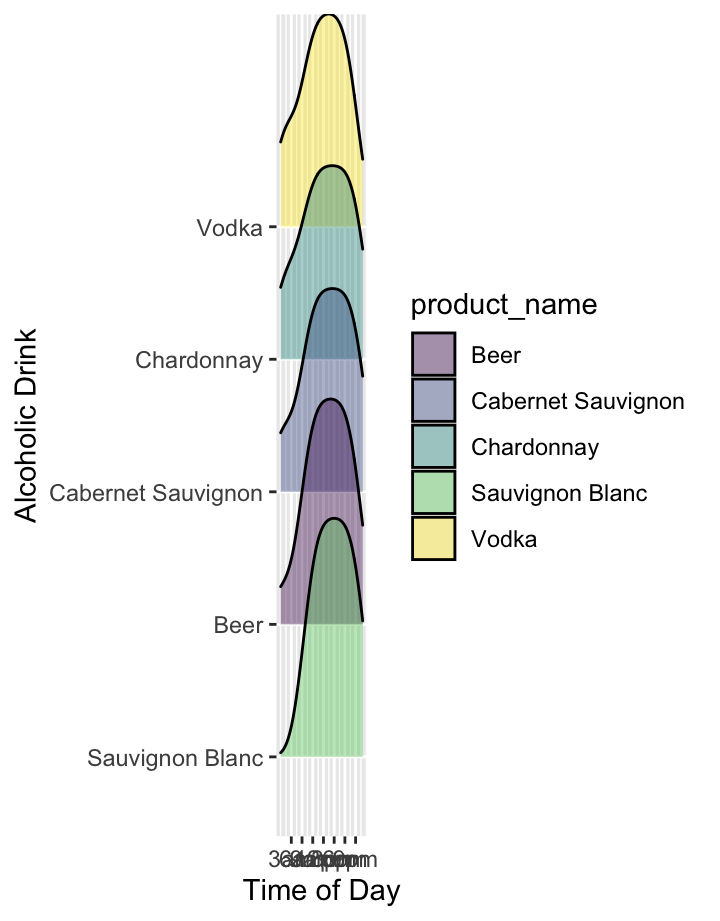
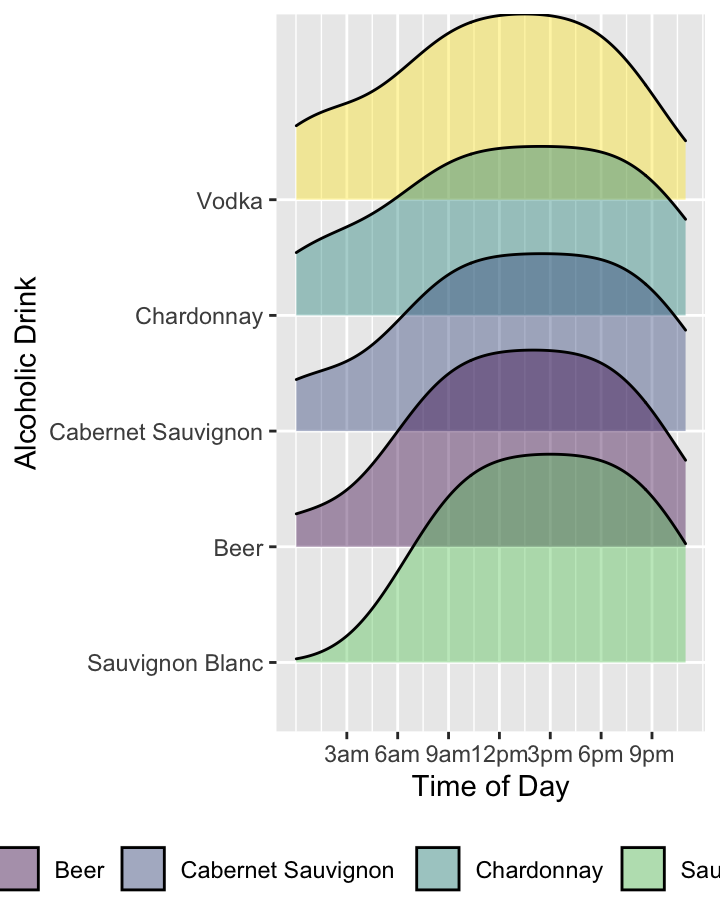
Update ridgeplot

diff --git a/flexdashboard.html b/flexdashboard.html
@@ -1887,8 +1887,8 @@ class="section level3">
 <div class="knitr-options" data-fig-width="576" data-fig-height="460">
 
 </div>
-<div id="htmlwidget-d8d38274ce6bbb818d71" style="width:576px;height:460.8px;" class="plotly html-widget"></div>
-<script type="application/json" data-for="htmlwidget-d8d38274ce6bbb818d71">{"x":{"visdat":{"459c44c37533":["function () ","plotlyVisDat"]},"cur_data":"459c44c37533","attrs":{"459c44c37533":{"x":{},"y":{},"color":{},"colors":"viridis","alpha_stroke":1,"sizes":[10,100],"spans":[1,20],"type":"bar"}},"layout":{"margin":{"b":40,"l":60,"t":25,"r":10},"xaxis":{"domain":[0,1],"automargin":true,"tickangle":315,"title":"Tea Brand","type":"category","categoryorder":"array","categoryarray":["Pink Lady Apple Kombucha","Premium Unsweetened Iced Tea","Zen Tea","Ginger Tea","Earl Grey Tea","Calm Chamomile Herbal Tea","Just Green Unsweetened Tea","Unsweetened Premium Iced Tea","Moroccan Mint Green Tea","Unsweetened Iced Tea","Black Tea Pyramids","Refresh Herbal Tea","Organic Peach Oo La Long Tea","Lemon Ginger Tea Bags","Unsweetened Ice Tea"]},"yaxis":{"domain":[0,1],"automargin":true,"title":"Order Count"},"hovermode":"closest","showlegend":true},"source":"A","config":{"modeBarButtonsToAdd":["hoverclosest","hovercompare"],"showSendToCloud":false},"data":[{"x":["Pink Lady Apple Kombucha"],"y":[233],"type":"bar","name":"Pink Lady Apple Kombucha","marker":{"color":"rgba(68,1,84,1)","line":{"color":"rgba(68,1,84,1)"}},"textfont":{"color":"rgba(68,1,84,1)"},"error_y":{"color":"rgba(68,1,84,1)"},"error_x":{"color":"rgba(68,1,84,1)"},"xaxis":"x","yaxis":"y","frame":null},{"x":["Premium Unsweetened Iced Tea"],"y":[216],"type":"bar","name":"Premium Unsweetened Iced Tea","marker":{"color":"rgba(72,27,109,1)","line":{"color":"rgba(72,27,109,1)"}},"textfont":{"color":"rgba(72,27,109,1)"},"error_y":{"color":"rgba(72,27,109,1)"},"error_x":{"color":"rgba(72,27,109,1)"},"xaxis":"x","yaxis":"y","frame":null},{"x":["Zen Tea"],"y":[173],"type":"bar","name":"Zen Tea","marker":{"color":"rgba(70,50,126,1)","line":{"color":"rgba(70,50,126,1)"}},"textfont":{"color":"rgba(70,50,126,1)"},"error_y":{"color":"rgba(70,50,126,1)"},"error_x":{"color":"rgba(70,50,126,1)"},"xaxis":"x","yaxis":"y","frame":null},{"x":["Ginger Tea"],"y":[148],"type":"bar","name":"Ginger Tea","marker":{"color":"rgba(63,72,137,1)","line":{"color":"rgba(63,72,137,1)"}},"textfont":{"color":"rgba(63,72,137,1)"},"error_y":{"color":"rgba(63,72,137,1)"},"error_x":{"color":"rgba(63,72,137,1)"},"xaxis":"x","yaxis":"y","frame":null},{"x":["Earl Grey Tea"],"y":[118],"type":"bar","name":"Earl Grey Tea","marker":{"color":"rgba(54,92,141,1)","line":{"color":"rgba(54,92,141,1)"}},"textfont":{"color":"rgba(54,92,141,1)"},"error_y":{"color":"rgba(54,92,141,1)"},"error_x":{"color":"rgba(54,92,141,1)"},"xaxis":"x","yaxis":"y","frame":null},{"x":["Calm Chamomile Herbal Tea"],"y":[116],"type":"bar","name":"Calm Chamomile Herbal Tea","marker":{"color":"rgba(46,110,142,1)","line":{"color":"rgba(46,110,142,1)"}},"textfont":{"color":"rgba(46,110,142,1)"},"error_y":{"color":"rgba(46,110,142,1)"},"error_x":{"color":"rgba(46,110,142,1)"},"xaxis":"x","yaxis":"y","frame":null},{"x":["Just Green Unsweetened Tea"],"y":[110],"type":"bar","name":"Just Green Unsweetened Tea","marker":{"color":"rgba(39,127,142,1)","line":{"color":"rgba(39,127,142,1)"}},"textfont":{"color":"rgba(39,127,142,1)"},"error_y":{"color":"rgba(39,127,142,1)"},"error_x":{"color":"rgba(39,127,142,1)"},"xaxis":"x","yaxis":"y","frame":null},{"x":["Unsweetened Premium Iced Tea"],"y":[109],"type":"bar","name":"Unsweetened Premium Iced Tea","marker":{"color":"rgba(33,144,141,1)","line":{"color":"rgba(33,144,141,1)"}},"textfont":{"color":"rgba(33,144,141,1)"},"error_y":{"color":"rgba(33,144,141,1)"},"error_x":{"color":"rgba(33,144,141,1)"},"xaxis":"x","yaxis":"y","frame":null},{"x":["Moroccan Mint Green Tea"],"y":[106],"type":"bar","name":"Moroccan Mint Green Tea","marker":{"color":"rgba(31,161,135,1)","line":{"color":"rgba(31,161,135,1)"}},"textfont":{"color":"rgba(31,161,135,1)"},"error_y":{"color":"rgba(31,161,135,1)"},"error_x":{"color":"rgba(31,161,135,1)"},"xaxis":"x","yaxis":"y","frame":null},{"x":["Unsweetened Iced Tea"],"y":[101],"type":"bar","name":"Unsweetened Iced Tea","marker":{"color":"rgba(45,178,125,1)","line":{"color":"rgba(45,178,125,1)"}},"textfont":{"color":"rgba(45,178,125,1)"},"error_y":{"color":"rgba(45,178,125,1)"},"error_x":{"color":"rgba(45,178,125,1)"},"xaxis":"x","yaxis":"y","frame":null},{"x":["Black Tea Pyramids"],"y":[97],"type":"bar","name":"Black Tea Pyramids","marker":{"color":"rgba(74,193,109,1)","line":{"color":"rgba(74,193,109,1)"}},"textfont":{"color":"rgba(74,193,109,1)"},"error_y":{"color":"rgba(74,193,109,1)"},"error_x":{"color":"rgba(74,193,109,1)"},"xaxis":"x","yaxis":"y","frame":null},{"x":["Refresh Herbal Tea"],"y":[97],"type":"bar","name":"Refresh Herbal Tea","marker":{"color":"rgba(113,207,87,1)","line":{"color":"rgba(113,207,87,1)"}},"textfont":{"color":"rgba(113,207,87,1)"},"error_y":{"color":"rgba(113,207,87,1)"},"error_x":{"color":"rgba(113,207,87,1)"},"xaxis":"x","yaxis":"y","frame":null},{"x":["Organic Peach Oo La Long Tea"],"y":[91],"type":"bar","name":"Organic Peach Oo La Long Tea","marker":{"color":"rgba(159,218,58,1)","line":{"color":"rgba(159,218,58,1)"}},"textfont":{"color":"rgba(159,218,58,1)"},"error_y":{"color":"rgba(159,218,58,1)"},"error_x":{"color":"rgba(159,218,58,1)"},"xaxis":"x","yaxis":"y","frame":null},{"x":["Lemon Ginger Tea Bags"],"y":[87],"type":"bar","name":"Lemon Ginger Tea Bags","marker":{"color":"rgba(207,225,28,1)","line":{"color":"rgba(207,225,28,1)"}},"textfont":{"color":"rgba(207,225,28,1)"},"error_y":{"color":"rgba(207,225,28,1)"},"error_x":{"color":"rgba(207,225,28,1)"},"xaxis":"x","yaxis":"y","frame":null},{"x":["Unsweetened Ice Tea"],"y":[87],"type":"bar","name":"Unsweetened Ice Tea","marker":{"color":"rgba(253,231,37,1)","line":{"color":"rgba(253,231,37,1)"}},"textfont":{"color":"rgba(253,231,37,1)"},"error_y":{"color":"rgba(253,231,37,1)"},"error_x":{"color":"rgba(253,231,37,1)"},"xaxis":"x","yaxis":"y","frame":null}],"highlight":{"on":"plotly_click","persistent":false,"dynamic":false,"selectize":false,"opacityDim":0.2,"selected":{"opacity":1},"debounce":0},"shinyEvents":["plotly_hover","plotly_click","plotly_selected","plotly_relayout","plotly_brushed","plotly_brushing","plotly_clickannotation","plotly_doubleclick","plotly_deselect","plotly_afterplot","plotly_sunburstclick"],"base_url":"https://plot.ly"},"evals":[],"jsHooks":[]}</script>
+<div id="htmlwidget-120dd77b04df67756b5f" style="width:576px;height:460.8px;" class="plotly html-widget"></div>
+<script type="application/json" data-for="htmlwidget-120dd77b04df67756b5f">{"x":{"visdat":{"4a27518c0f19":["function () ","plotlyVisDat"]},"cur_data":"4a27518c0f19","attrs":{"4a27518c0f19":{"x":{},"y":{},"color":{},"colors":"viridis","alpha_stroke":1,"sizes":[10,100],"spans":[1,20],"type":"bar"}},"layout":{"margin":{"b":40,"l":60,"t":25,"r":10},"xaxis":{"domain":[0,1],"automargin":true,"tickangle":315,"title":"Tea Brand","type":"category","categoryorder":"array","categoryarray":["Pink Lady Apple Kombucha","Premium Unsweetened Iced Tea","Zen Tea","Ginger Tea","Earl Grey Tea","Calm Chamomile Herbal Tea","Just Green Unsweetened Tea","Unsweetened Premium Iced Tea","Moroccan Mint Green Tea","Unsweetened Iced Tea","Black Tea Pyramids","Refresh Herbal Tea","Organic Peach Oo La Long Tea","Lemon Ginger Tea Bags","Unsweetened Ice Tea"]},"yaxis":{"domain":[0,1],"automargin":true,"title":"Order Count"},"hovermode":"closest","showlegend":true},"source":"A","config":{"modeBarButtonsToAdd":["hoverclosest","hovercompare"],"showSendToCloud":false},"data":[{"x":["Pink Lady Apple Kombucha"],"y":[233],"type":"bar","name":"Pink Lady Apple Kombucha","marker":{"color":"rgba(68,1,84,1)","line":{"color":"rgba(68,1,84,1)"}},"textfont":{"color":"rgba(68,1,84,1)"},"error_y":{"color":"rgba(68,1,84,1)"},"error_x":{"color":"rgba(68,1,84,1)"},"xaxis":"x","yaxis":"y","frame":null},{"x":["Premium Unsweetened Iced Tea"],"y":[216],"type":"bar","name":"Premium Unsweetened Iced Tea","marker":{"color":"rgba(72,27,109,1)","line":{"color":"rgba(72,27,109,1)"}},"textfont":{"color":"rgba(72,27,109,1)"},"error_y":{"color":"rgba(72,27,109,1)"},"error_x":{"color":"rgba(72,27,109,1)"},"xaxis":"x","yaxis":"y","frame":null},{"x":["Zen Tea"],"y":[173],"type":"bar","name":"Zen Tea","marker":{"color":"rgba(70,50,126,1)","line":{"color":"rgba(70,50,126,1)"}},"textfont":{"color":"rgba(70,50,126,1)"},"error_y":{"color":"rgba(70,50,126,1)"},"error_x":{"color":"rgba(70,50,126,1)"},"xaxis":"x","yaxis":"y","frame":null},{"x":["Ginger Tea"],"y":[148],"type":"bar","name":"Ginger Tea","marker":{"color":"rgba(63,72,137,1)","line":{"color":"rgba(63,72,137,1)"}},"textfont":{"color":"rgba(63,72,137,1)"},"error_y":{"color":"rgba(63,72,137,1)"},"error_x":{"color":"rgba(63,72,137,1)"},"xaxis":"x","yaxis":"y","frame":null},{"x":["Earl Grey Tea"],"y":[118],"type":"bar","name":"Earl Grey Tea","marker":{"color":"rgba(54,92,141,1)","line":{"color":"rgba(54,92,141,1)"}},"textfont":{"color":"rgba(54,92,141,1)"},"error_y":{"color":"rgba(54,92,141,1)"},"error_x":{"color":"rgba(54,92,141,1)"},"xaxis":"x","yaxis":"y","frame":null},{"x":["Calm Chamomile Herbal Tea"],"y":[116],"type":"bar","name":"Calm Chamomile Herbal Tea","marker":{"color":"rgba(46,110,142,1)","line":{"color":"rgba(46,110,142,1)"}},"textfont":{"color":"rgba(46,110,142,1)"},"error_y":{"color":"rgba(46,110,142,1)"},"error_x":{"color":"rgba(46,110,142,1)"},"xaxis":"x","yaxis":"y","frame":null},{"x":["Just Green Unsweetened Tea"],"y":[110],"type":"bar","name":"Just Green Unsweetened Tea","marker":{"color":"rgba(39,127,142,1)","line":{"color":"rgba(39,127,142,1)"}},"textfont":{"color":"rgba(39,127,142,1)"},"error_y":{"color":"rgba(39,127,142,1)"},"error_x":{"color":"rgba(39,127,142,1)"},"xaxis":"x","yaxis":"y","frame":null},{"x":["Unsweetened Premium Iced Tea"],"y":[109],"type":"bar","name":"Unsweetened Premium Iced Tea","marker":{"color":"rgba(33,144,141,1)","line":{"color":"rgba(33,144,141,1)"}},"textfont":{"color":"rgba(33,144,141,1)"},"error_y":{"color":"rgba(33,144,141,1)"},"error_x":{"color":"rgba(33,144,141,1)"},"xaxis":"x","yaxis":"y","frame":null},{"x":["Moroccan Mint Green Tea"],"y":[106],"type":"bar","name":"Moroccan Mint Green Tea","marker":{"color":"rgba(31,161,135,1)","line":{"color":"rgba(31,161,135,1)"}},"textfont":{"color":"rgba(31,161,135,1)"},"error_y":{"color":"rgba(31,161,135,1)"},"error_x":{"color":"rgba(31,161,135,1)"},"xaxis":"x","yaxis":"y","frame":null},{"x":["Unsweetened Iced Tea"],"y":[101],"type":"bar","name":"Unsweetened Iced Tea","marker":{"color":"rgba(45,178,125,1)","line":{"color":"rgba(45,178,125,1)"}},"textfont":{"color":"rgba(45,178,125,1)"},"error_y":{"color":"rgba(45,178,125,1)"},"error_x":{"color":"rgba(45,178,125,1)"},"xaxis":"x","yaxis":"y","frame":null},{"x":["Black Tea Pyramids"],"y":[97],"type":"bar","name":"Black Tea Pyramids","marker":{"color":"rgba(74,193,109,1)","line":{"color":"rgba(74,193,109,1)"}},"textfont":{"color":"rgba(74,193,109,1)"},"error_y":{"color":"rgba(74,193,109,1)"},"error_x":{"color":"rgba(74,193,109,1)"},"xaxis":"x","yaxis":"y","frame":null},{"x":["Refresh Herbal Tea"],"y":[97],"type":"bar","name":"Refresh Herbal Tea","marker":{"color":"rgba(113,207,87,1)","line":{"color":"rgba(113,207,87,1)"}},"textfont":{"color":"rgba(113,207,87,1)"},"error_y":{"color":"rgba(113,207,87,1)"},"error_x":{"color":"rgba(113,207,87,1)"},"xaxis":"x","yaxis":"y","frame":null},{"x":["Organic Peach Oo La Long Tea"],"y":[91],"type":"bar","name":"Organic Peach Oo La Long Tea","marker":{"color":"rgba(159,218,58,1)","line":{"color":"rgba(159,218,58,1)"}},"textfont":{"color":"rgba(159,218,58,1)"},"error_y":{"color":"rgba(159,218,58,1)"},"error_x":{"color":"rgba(159,218,58,1)"},"xaxis":"x","yaxis":"y","frame":null},{"x":["Lemon Ginger Tea Bags"],"y":[87],"type":"bar","name":"Lemon Ginger Tea Bags","marker":{"color":"rgba(207,225,28,1)","line":{"color":"rgba(207,225,28,1)"}},"textfont":{"color":"rgba(207,225,28,1)"},"error_y":{"color":"rgba(207,225,28,1)"},"error_x":{"color":"rgba(207,225,28,1)"},"xaxis":"x","yaxis":"y","frame":null},{"x":["Unsweetened Ice Tea"],"y":[87],"type":"bar","name":"Unsweetened Ice Tea","marker":{"color":"rgba(253,231,37,1)","line":{"color":"rgba(253,231,37,1)"}},"textfont":{"color":"rgba(253,231,37,1)"},"error_y":{"color":"rgba(253,231,37,1)"},"error_x":{"color":"rgba(253,231,37,1)"},"xaxis":"x","yaxis":"y","frame":null}],"highlight":{"on":"plotly_click","persistent":false,"dynamic":false,"selectize":false,"opacityDim":0.2,"selected":{"opacity":1},"debounce":0},"shinyEvents":["plotly_hover","plotly_click","plotly_selected","plotly_relayout","plotly_brushed","plotly_brushing","plotly_clickannotation","plotly_doubleclick","plotly_deselect","plotly_afterplot","plotly_sunburstclick"],"base_url":"https://plot.ly"},"evals":[],"jsHooks":[]}</script>
 </div>
 </div>
 <div id="column-1" class="section level2" data-width="400">
@@ -1896,10 +1896,10 @@ class="section level3">
 <div id="purchase-times-for-top-alcoholic-drinks-ordered-on-instacart"
 class="section level3">
 <h3>Purchase Times for Top Alcoholic Drinks Ordered on Instacart</h3>
-<div class="knitr-options" data-fig-width="576" data-fig-height="460">
+<div class="knitr-options" data-fig-width="768" data-fig-height="460">
 
 </div>
-<p><img src="flexdashboard_files/figure-html/ridgeplot-1.png" width="576" data-figure-id=fig1 /></p>
+<p><img src="flexdashboard_files/figure-html/ridgeplot-1.png" width="768" data-figure-id=fig1 /></p>
 </div>
 <div id="chart-c" class="section level3">
 <h3>Chart C</h3>
